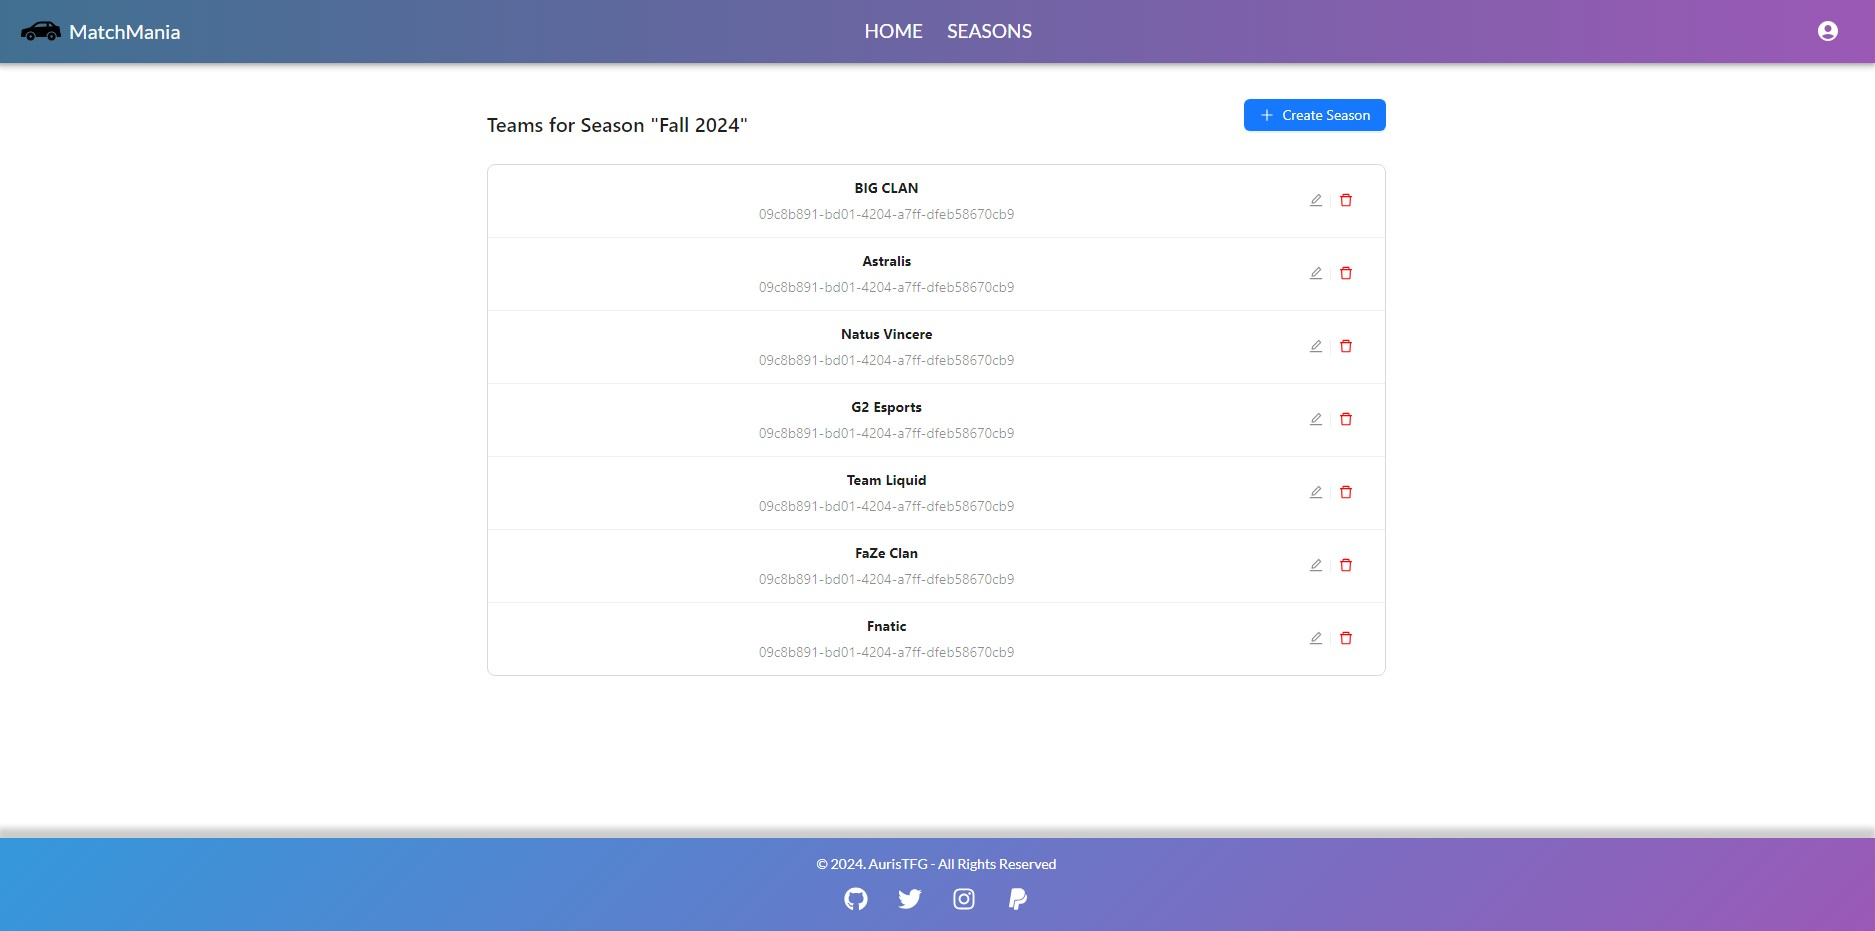
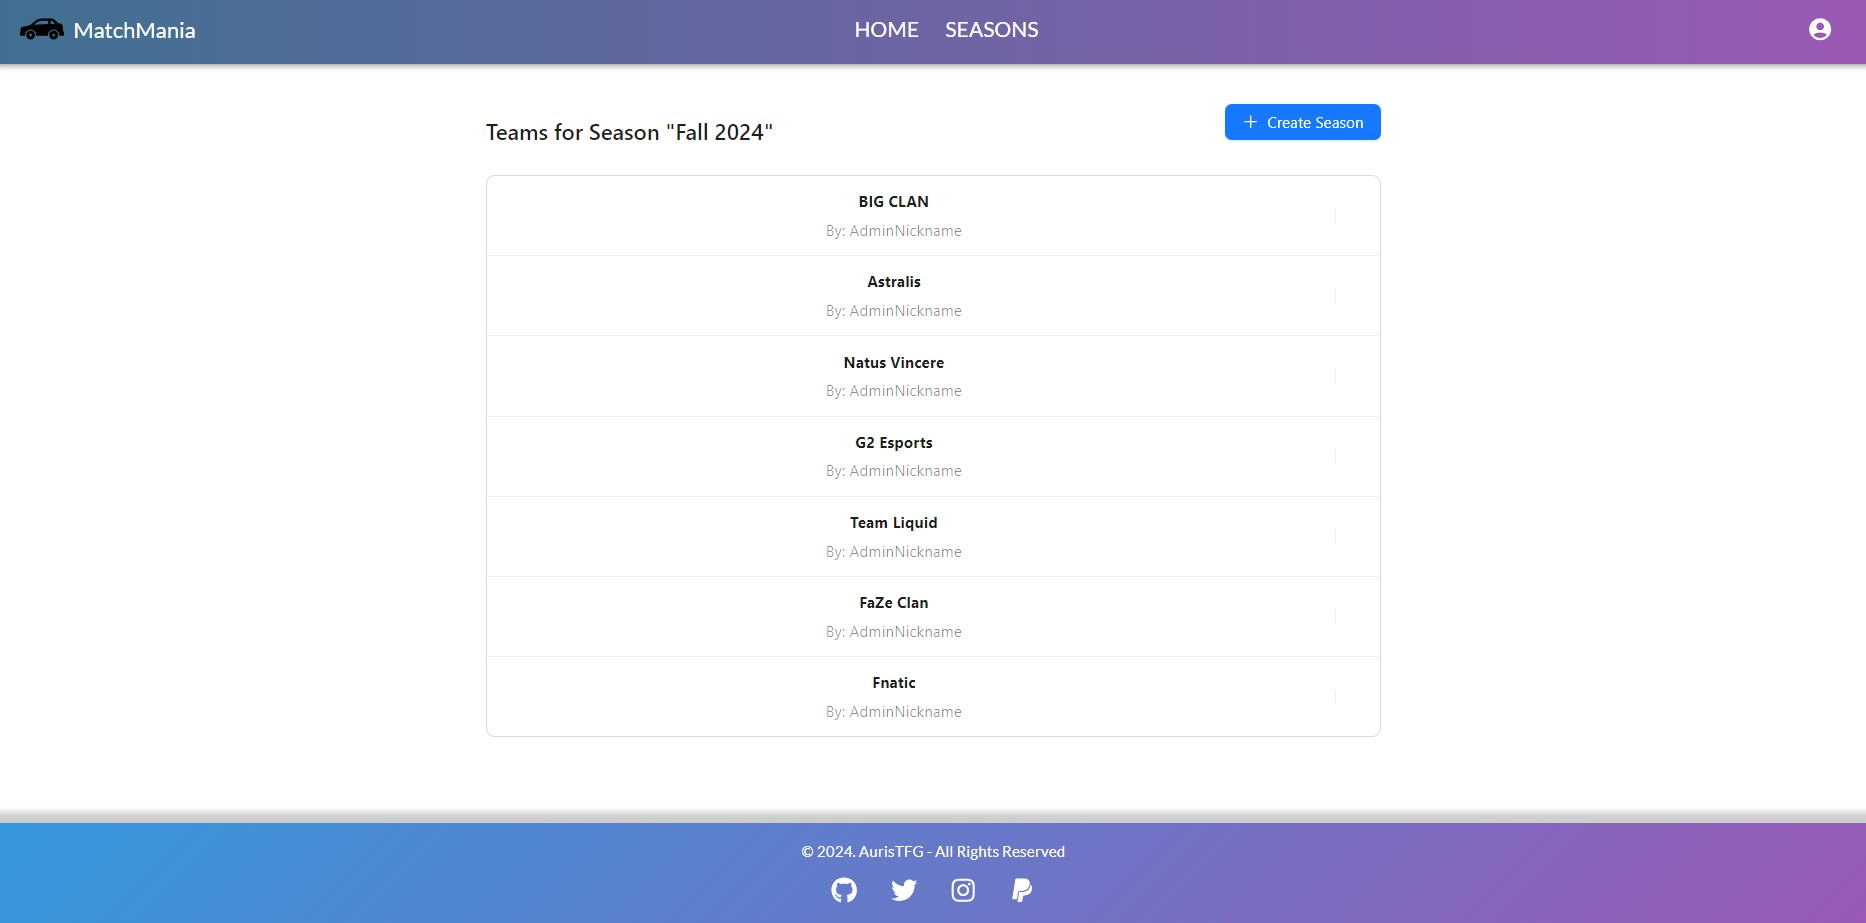
final touches...

diff --git a/frontend/src/pages/Seasons/TeamsPage.tsx b/frontend/src/pages/Seasons/TeamsPage.tsx
@@ -11,6 +11,8 @@ import { Modal, Button, Input, List, Space, Typography, message } from "antd";
 import { EditOutlined, DeleteOutlined, PlusOutlined } from "@ant-design/icons";
 import { useParams, Link } from "react-router-dom";
 import { UseAuth } from "../../components/Auth/AuthContext";
+import { User } from "../../types/users.ts";
+import { getAllUsers } from "../../api/users.ts";
 
 const isValidTeam = (seasonId: string | undefined) => {
   return seasonId && !isNaN(Number(seasonId)) && Number(seasonId) > 0;
@@ -30,11 +32,11 @@ const TeamsPage: React.FC = () => {
     name: "",
   });
   const { user } = UseAuth();
+  const [users, setUsers] = useState<User[]>([]);
 
   const fetchTeams = async () => {
     if (!seasonId || teamsNotFound) return;
 
-    setLoading(true);
     try {
       const data = await getAllTeams(parseInt(seasonId));
 
@@ -43,8 +45,6 @@ const TeamsPage: React.FC = () => {
       message.error("Failed to fetch teams.");
       console.error(error);
       setTeamsNotFound(true);
-    } finally {
-      setLoading(false);
     }
   };
 
@@ -61,14 +61,39 @@ const TeamsPage: React.FC = () => {
     }
   };
 
+  const fetchUsers = async () => {
+    try {
+      const data = await getAllUsers();
+      setUsers(data);
+    } catch (error) {
+      message.error("Failed to fetch users.");
+      console.error(error);
+    }
+  };
+
+  const getUserById = (userId: string): User => {
+    console.log(users);
+    console.log(userId);
+    return (
+      users.find((user) => user.id === userId) ||
+      ({
+        id: "",
+        username: "Unknown User",
+      } as User)
+    );
+  };
+
   useEffect(() => {
     if (!isValidTeam(seasonId)) {
       setTeamsNotFound(true);
       return;
     }
 
+    setLoading(true);
     fetchSeason();
     fetchTeams();
+    fetchUsers();
+    setLoading(false);
   }, [seasonId, teamsNotFound]);
 
   if (teamsNotFound) {
@@ -162,11 +187,11 @@ const TeamsPage: React.FC = () => {
               user &&
               (user.role === "moderator" ||
                 user.role === "admin" ||
-                season.userUUID === user.id) ? (
+                team.userUUID === user.id) ? (
                 <EditOutlined key="edit" onClick={() => openModal(team)} />
               ) : null,
 
-              user && (user.role === "admin" || season.userUUID === user.id) ? (
+              user && (user.role === "admin" || team.userUUID === user.id) ? (
                 <DeleteOutlined
                   key="delete"
                   onClick={() => handleDelete(team.id)}
@@ -184,7 +209,7 @@ const TeamsPage: React.FC = () => {
               description={
                 <>
                   <Typography.Text type="secondary">
-                    {season.userUUID}
+                    {`By: ${getUserById(team.userUUID).username}`}
                   </Typography.Text>
                 </>
               }

diff --git a/frontend/src/pages/Seasons/ResultsPage.tsx b/frontend/src/pages/Seasons/ResultsPage.tsx
@@ -23,6 +23,8 @@ import { EditOutlined, DeleteOutlined, PlusOutlined } from "@ant-design/icons";
 import { useParams } from "react-router-dom";
 import moment from "moment";
 import { UseAuth } from "../../components/Auth/AuthContext";
+import { User } from "../../types/users.ts";
+import { getAllUsers } from "../../api/users.ts";
 
 const { Option } = Select;
 
@@ -63,6 +65,7 @@ const ResultsPage: React.FC = () => {
     opponentTeamId: 0,
   });
   const { user } = UseAuth();
+  const [users, setUsers] = useState<User[]>([]);
 
   const fetchResults = async () => {
     if (!seasonId || !teamId || resultsNotFound) return;
@@ -117,6 +120,28 @@ const ResultsPage: React.FC = () => {
     }
   };
 
+  const fetchUsers = async () => {
+    try {
+      const data = await getAllUsers();
+      setUsers(data);
+    } catch (error) {
+      message.error("Failed to fetch users.");
+      console.error(error);
+    }
+  };
+
+  const getUserById = (userId: string): User => {
+    console.log(users);
+    console.log(userId);
+    return (
+      users.find((user) => user.id === userId) ||
+      ({
+        id: "",
+        username: "Unknown User",
+      } as User)
+    );
+  };
+
   useEffect(() => {
     if (!isValidResult(seasonId, teamId)) {
       setResultsNotFound(true);
@@ -128,6 +153,7 @@ const ResultsPage: React.FC = () => {
     fetchTeam();
     fetchTeams();
     fetchResults();
+    fetchUsers();
     setLoading(false);
   }, [seasonId, teamId, resultsNotFound]);
 
@@ -262,14 +288,14 @@ const ResultsPage: React.FC = () => {
               user &&
               (user.role === "moderator" ||
                 user.role === "admin" ||
-                season.userUUID === user.id) ? (
+                result.userUUID === user.id) ? (
                 <EditOutlined
                   key="edit"
                   onClick={() => openEditModal(result)}
                 />
               ) : null,
 
-              user && (user.role === "admin" || season.userUUID === user.id) ? (
+              user && (user.role === "admin" || result.userUUID === user.id) ? (
                 <DeleteOutlined
                   key="delete"
                   onClick={() => handleDelete(result.id)}
@@ -291,7 +317,7 @@ const ResultsPage: React.FC = () => {
                   </Typography.Text>
                   <br />
                   <Typography.Text type="secondary">
-                    {season.userUUID}
+                    {`By: ${getUserById(result.userUUID).username}`}
                   </Typography.Text>
                 </>
               }

diff --git a/frontend/src/pages/Seasons/SeasonsPage.tsx b/frontend/src/pages/Seasons/SeasonsPage.tsx
@@ -20,6 +20,8 @@ import { EditOutlined, DeleteOutlined, PlusOutlined } from "@ant-design/icons";
 import moment from "moment";
 import { Link } from "react-router-dom";
 import { UseAuth } from "../../components/Auth/AuthContext";
+import { User } from "../../types/users.ts";
+import { getAllUsers } from "../../api/users.ts";
 
 const SeasonsPage: React.FC = () => {
   const [seasons, setSeasons] = useState<Season[]>([]);
@@ -33,6 +35,7 @@ const SeasonsPage: React.FC = () => {
     endDate: moment(),
   });
   const { user } = UseAuth();
+  const [users, setUsers] = useState<User[]>([]);
 
   const fetchSeasons = async () => {
     try {
@@ -44,12 +47,33 @@ const SeasonsPage: React.FC = () => {
     }
   };
 
+  const fetchUsers = async () => {
+    try {
+      const data = await getAllUsers();
+      setUsers(data);
+    } catch (error) {
+      message.error("Failed to fetch users.");
+      console.error(error);
+    }
+  };
+
+  const getUserById = (userId: string): User => {
+    console.log(users);
+    console.log(userId);
+    return (
+      users.find((user) => user.id === userId) ||
+      ({
+        id: "",
+        username: "Unknown User",
+      } as User)
+    );
+  };
+
   useEffect(() => {
     setLoading(true);
     fetchSeasons();
+    fetchUsers();
     setLoading(false);
-
-    console.log(user);
   }, [user]);
 
   const handleCreateOrEdit = async () => {
@@ -183,7 +207,7 @@ const SeasonsPage: React.FC = () => {
                   </Typography.Text>
                   <br />
                   <Typography.Text type="secondary">
-                    {season.userUUID}
+                    {`By: ${getUserById(season.userUUID).username}`}
                   </Typography.Text>
                 </>
               }

diff --git a/frontend/src/api/users.ts b/frontend/src/api/users.ts
@@ -1,24 +1,26 @@
 import api from "./api";
+import { handleApiError } from "./utils";
 import { getAccessToken } from "./auth";
 import { jwtDecode } from "jwt-decode";
+import { User, UserResponse, UsersResponse } from "../types/users";
 
-export async function getAllUsers() {
+export async function getAllUsers(): Promise<User[]> {
   try {
-    const response = await api.get("/users");
+    const { data } = await api.get<UsersResponse>("/users");
 
-    return response.data;
+    return data.users || [];
   } catch (error) {
-    throw new Error(String(error));
+    handleApiError(error);
   }
 }
 
-export async function getUser(userId: string) {
+export async function getUser(userId: string): Promise<User> {
   try {
-    const response = await api.get(`/users/${userId}`);
+    const { data } = await api.get<UserResponse>(`/users/${userId}`);
 
-    return response.data;
+    return data.user || ({} as User);
   } catch (error) {
-    throw new Error(String(error));
+    handleApiError(error);
   }
 }
 

diff --git a/frontend/src/components/Auth/AuthContext.tsx b/frontend/src/components/Auth/AuthContext.tsx
@@ -1,11 +1,5 @@
 import { createContext, useContext, useState, ReactNode } from "react";
-
-interface User {
-  id: string;
-  username: string;
-  email: string;
-  role: string;
-}
+import { User } from "../../types/users";
 
 interface AuthContextType {
   user?: User | null;

diff --git a/frontend/src/types/users.ts b/frontend/src/types/users.ts
@@ -1,0 +1,14 @@
+export interface User {
+  id: string;
+  username: string;
+  email: string;
+  role: string;
+}
+
+export interface UsersResponse {
+  users?: User[];
+}
+
+export interface UserResponse {
+  user?: User;
+}

diff --git a/backend/models/user.go b/backend/models/user.go
@@ -48,6 +48,7 @@ func (u *User) ComparePassword(password string) bool {
 type UserDto struct {
 	UUID     uuid.UUID `json:"id" example:"526432ea-822b-4b5b-b1b3-34e8ab453e03"`
 	Username string    `json:"username" example:"AurisTFG"`
+	Email    string    `json:"email" example:"AurisTFG@gmail.com"`
 	Role     Role      `json:"role" example:"admin"`
 }
 
@@ -89,6 +90,7 @@ func (u *User) ToDto() UserDto {
 		UUID:     u.UUID,
 		Username: u.Username,
 		Role:     u.Role,
+		Email:    u.Email,
 	}
 }
 

diff --git a/backend/docs/docs.go b/backend/docs/docs.go
@@ -1448,6 +1448,10 @@ const docTemplate = `{
         "models.UserDto": {
             "type": "object",
             "properties": {
+                "email": {
+                    "type": "string",
+                    "example": "AurisTFG@gmail.com"
+                },
                 "id": {
                     "type": "string",
                     "example": "526432ea-822b-4b5b-b1b3-34e8ab453e03"
